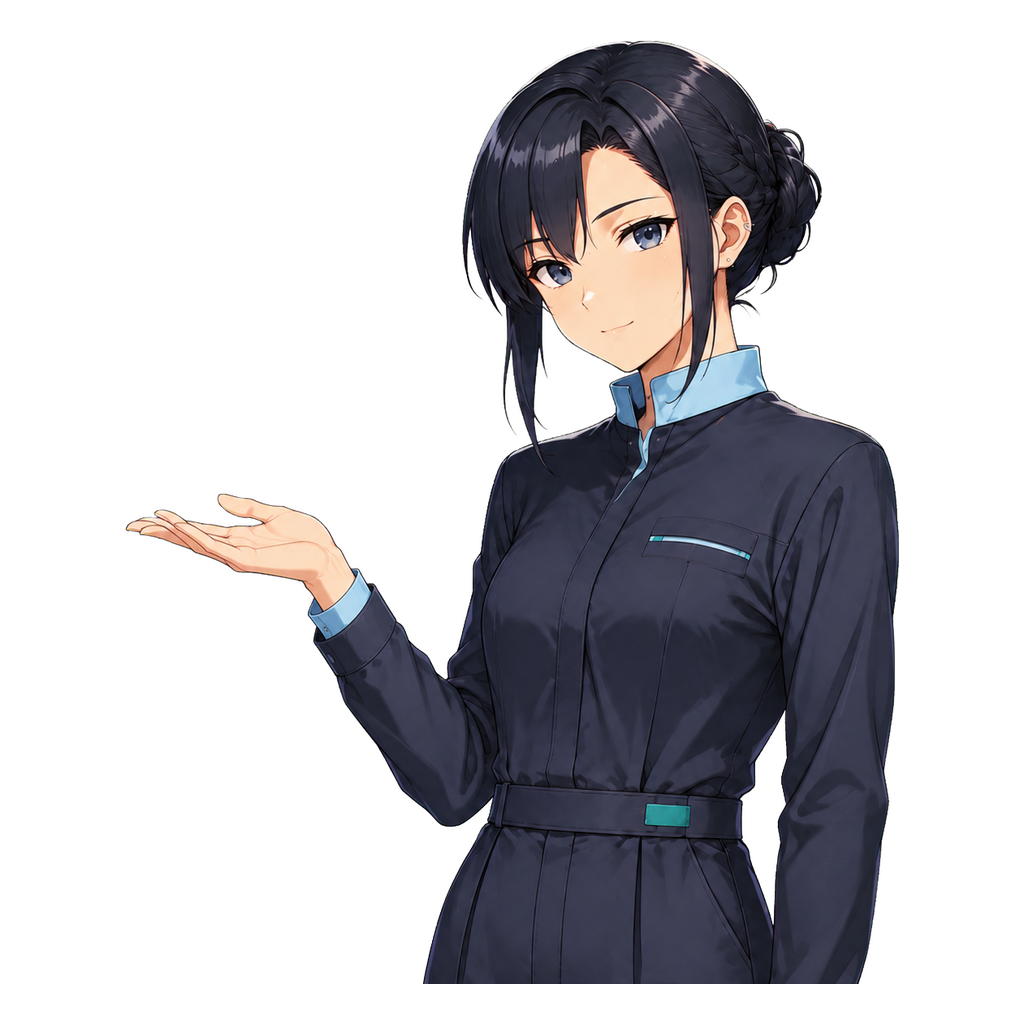
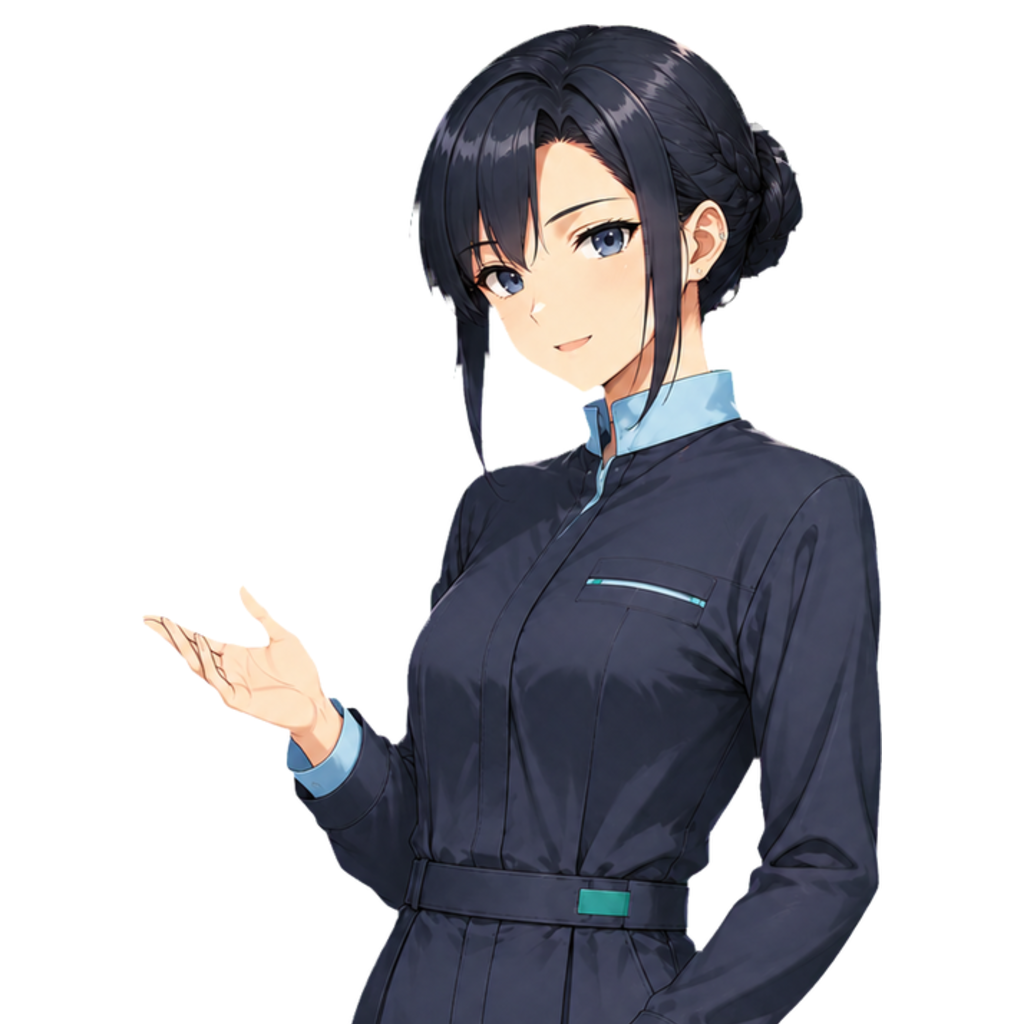
Rebuild CBJ raster artwork

Changed region(s): [[0.125, 0.0, 0.875, 1.0]]

diff --git a/app/page.tsx b/app/page.tsx
@@ -38,7 +38,7 @@ const learningSteps = [
 
 const topics = [
   {
-    icon: "/images/cbj/topic-icons/exhaust-muffler.svg",
+    icon: "/images/cbj/topic-icons/exhaust-muffler.png",
     title: "排気系・マフラー",
     body: "マフラーとは？から「静かなのに車検に落ちる謎」まで。排気ガスの旅を追いかける。",
     tone: styles.topicPink,
@@ -46,35 +46,35 @@ const topics = [
     href: "/guide",
   },
   {
-    icon: "/images/cbj/topic-icons/turbocharger.svg",
+    icon: "/images/cbj/topic-icons/turbocharger.png",
     title: "ターボ・過給機",
     body: "「空気を詰め込むと、なぜ速くなる？」NAとターボの維持費逆転の法則まで。",
     tone: styles.topicBlue,
     status: "準備中",
   },
   {
-    icon: "/images/cbj/topic-icons/suspension.svg",
+    icon: "/images/cbj/topic-icons/suspension.png",
     title: "足回り・サスペンション",
     body: "乗り心地と走りを決める足回り。車高調とダウンサス、何が違うの？",
     tone: styles.topicYellow,
     status: "準備中",
   },
   {
-    icon: "/images/cbj/topic-icons/engine-basics.svg",
+    icon: "/images/cbj/topic-icons/engine-basics.png",
     title: "エンジンの基礎",
     body: "エンジンって何してるの？4ストロークから直噴・ハイブリッドの違いまで。",
     tone: styles.topicGreen,
     status: "準備中",
   },
   {
-    icon: "/images/cbj/topic-icons/vehicle-inspection.svg",
+    icon: "/images/cbj/topic-icons/vehicle-inspection.png",
     title: "車検・制度",
     body: "車検は何を見てるの？保安基準、改造と法律の境界線を正しく理解する。",
     tone: styles.topicPurple,
     status: "準備中",
   },
   {
-    icon: "/images/cbj/topic-icons/ownership-cost.svg",
+    icon: "/images/cbj/topic-icons/ownership-cost.png",
     title: "維持費・お金",
     body: "車の本当のコスト。税金、保険、燃料、整備——「乗り続ける」の値段。",
     tone: styles.topicOrange,
@@ -86,7 +86,7 @@ function TopicCard({ topic }: { topic: (typeof topics)[number] }) {
   const content = (
     <>
       <div className={styles.topicIcon} aria-hidden="true">
-        <Image src={topic.icon} alt="" width={48} height={48} />
+        <Image src={topic.icon} alt="" width={192} height={192} unoptimized />
       </div>
       <h3>{topic.title}</h3>
       <p>{topic.body}</p>
@@ -165,7 +165,8 @@ export default function Home() {
               alt="車の疑問を尋ねるシュナ"
               width={1024}
               height={1024}
-              sizes="(max-width: 860px) 34vw, 22vw"
+              sizes="(max-width: 681px) 150px, (max-width: 1182px) 22vw, 260px"
+              quality={90}
               priority
             />
             <Image
@@ -173,7 +174,8 @@ export default function Home() {
               alt="車について解説する莉奈"
               width={1024}
               height={1024}
-              sizes="(max-width: 860px) 34vw, 22vw"
+              sizes="(max-width: 681px) 150px, (max-width: 1182px) 22vw, 260px"
+              quality={90}
               priority
             />
           </div>
@@ -246,6 +248,7 @@ export default function Home() {
                 width={1024}
                 height={1024}
                 sizes="(max-width: 860px) 140px, 180px"
+                quality={90}
               />
             </article>
             <article className={`${styles.characterCard} ${styles.rinaCard}`}>
@@ -260,6 +263,7 @@ export default function Home() {
                 width={1024}
                 height={1024}
                 sizes="(max-width: 860px) 140px, 180px"
+                quality={90}
               />
             </article>
           </div>

diff --git a/components/editorialArticle/VisualArticlePage.tsx b/components/editorialArticle/VisualArticlePage.tsx
@@ -148,11 +148,11 @@ function ImageFigure({ src, alt, dark = false }: { src?: string | null; alt?: st
 }
 function SummaryCard({ src, label = "まとめ", textValue, dark = false }: { src?: string; label?: string; textValue?: string; dark?: boolean }) {
   if (!textValue) return null;
-  return <aside className={cx(styles.summaryCard, dark && styles.summaryCardDark)}>{src ? <EagerImage className={styles.summaryCharacter} src={src} alt="" width={160} height={240} /> : null}<div><span>{label}</span><p>{textValue}</p></div></aside>;
+  return <aside className={cx(styles.summaryCard, dark && styles.summaryCardDark)}>{src ? <EagerImage className={styles.summaryCharacter} src={src} alt="" width={160} height={160} /> : null}<div><span>{label}</span><p>{textValue}</p></div></aside>;
 }
 function Hero({ article, labels, layout }: { article: VisualArticle; labels: EditorialArticleLabels; layout: VisualLayout }) {
   const hero = layout.hero ?? {};
-  return <header className={styles.hero}><div className={styles.container}><div className={styles.heroBadge}>{hero.label ?? "保存版"}</div><div className={styles.heroGrid}><div className={styles.heroCopy}><p className={styles.heroEyebrow}>{hero.category ?? categoryFromLabels(labels)}</p><h1 className={styles.heroTitle}>{String(hero.title ?? titleLines(article.title)).split("\n").map((line, index) => <span className={index === 1 ? styles.heroAccent : undefined} key={index}>{line}<br /></span>)}</h1>{hero.subtitle ? <p className={styles.heroSubtitle}>{hero.subtitle}</p> : null}{hero.lead ? <p className={styles.heroLead}>{hero.lead}</p> : null}</div><div className={styles.heroSide}>{hero.image ? <EagerImage className={styles.heroPhoto} src={hero.image} alt={hero.imageAlt || article.title} width={640} height={400} /> : null}<Score value={hero.score} />{hero.character ? <EagerImage className={styles.heroCharacter} src={hero.character} alt="" width={260} height={390} /> : null}</div></div></div></header>;
+  return <header className={styles.hero}><div className={styles.container}><div className={styles.heroBadge}>{hero.label ?? "保存版"}</div><div className={styles.heroGrid}><div className={styles.heroCopy}><p className={styles.heroEyebrow}>{hero.category ?? categoryFromLabels(labels)}</p><h1 className={styles.heroTitle}>{String(hero.title ?? titleLines(article.title)).split("\n").map((line, index) => <span className={index === 1 ? styles.heroAccent : undefined} key={index}>{line}<br /></span>)}</h1>{hero.subtitle ? <p className={styles.heroSubtitle}>{hero.subtitle}</p> : null}{hero.lead ? <p className={styles.heroLead}>{hero.lead}</p> : null}</div><div className={styles.heroSide}>{hero.image ? <EagerImage className={styles.heroPhoto} src={hero.image} alt={hero.imageAlt || article.title} width={640} height={400} /> : null}<Score value={hero.score} />{hero.character ? <EagerImage className={styles.heroCharacter} src={hero.character} alt="" width={260} height={260} /> : null}</div></div></div></header>;
 }
 function Intro({ layout, linkIndex }: { layout: VisualLayout; linkIndex: Record<string, InternalLinkMeta> }) {
   const intro = layout.intro;

diff --git a/app/refbook-home.module.css b/app/refbook-home.module.css
@@ -401,8 +401,8 @@
 
 .topicIcon img {
   display: block;
-  width: 48px;
-  height: 48px;
+  width: 52px;
+  height: 52px;
   object-fit: contain;
 }
 
@@ -486,7 +486,7 @@
 }
 
 .topicSoon {
-  opacity: 0.75;
+  cursor: default;
 }
 
 .topicSoon:hover {
